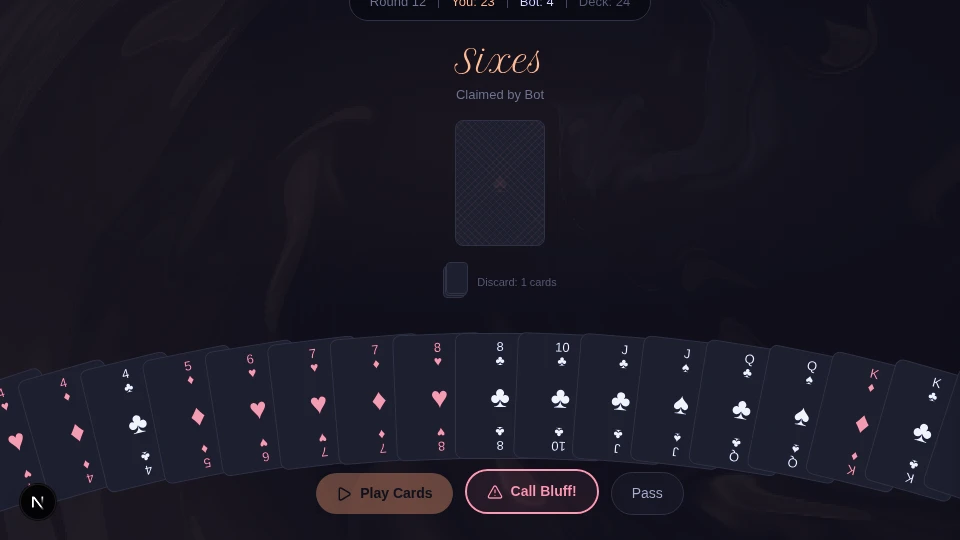
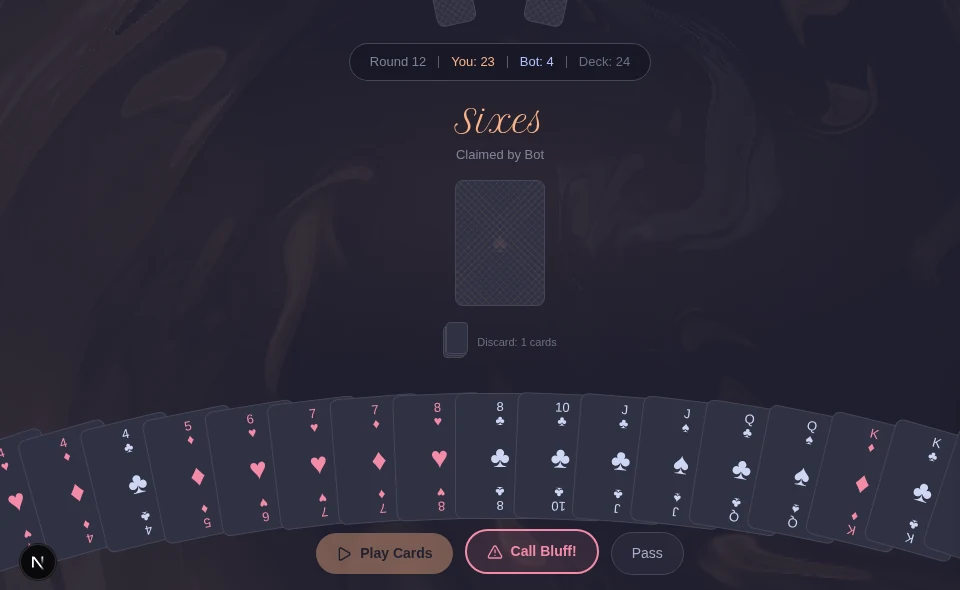
Improve Bluff portfolio gameplay preview

diff --git a/index.html b/index.html
@@ -33,7 +33,7 @@
       type="font/ttf"
       crossorigin
     />
-    <link rel="stylesheet" href="styles.css?v=20261003-8" />
+    <link rel="stylesheet" href="styles.css?v=20261003-9" />
   </head>
   <body>
     <a class="skip" href="#main">Skip to content</a>
@@ -123,10 +123,10 @@
               href="https://github.com/Prajwal-k-tech/bluff"
               aria-label="Explore Bluff source"
               ><img
-                src="assets/bluff-game.webp?v=20261003-3"
+                src="assets/bluff-game.webp?v=20261003-5"
                 alt="A Bluff game in progress, showing the current claim, player's hand and bluff or pass controls"
                 width="960"
-                height="540"
+                height="590"
                 loading="lazy"
             /></a>
             <div class="project-heading">

diff --git a/styles.css b/styles.css
@@ -211,6 +211,10 @@ h1 {
   object-fit: contain;
   background: #050505;
 }
+.bluff-project-image img {
+  object-fit: cover;
+  object-position: center;
+}
 .project-image:hover img {
   transform: scale(1.025);
 }
@@ -511,6 +515,7 @@ footer a {
   }
   .project-image img { height: 300px; }
   .battlecp-project-image img { object-fit: contain; }
+  .bluff-project-image img { object-fit: cover; }
   .project-heading {
     align-items: flex-start;
     flex-direction: column;
@@ -594,6 +599,7 @@ footer a {
     object-fit: cover;
   }
   .battlecp-project-image img { object-fit: contain; }
+  .bluff-project-image img { aspect-ratio: 1.63; object-fit: cover; }
   .section {
     padding: 42px 0;
   }
